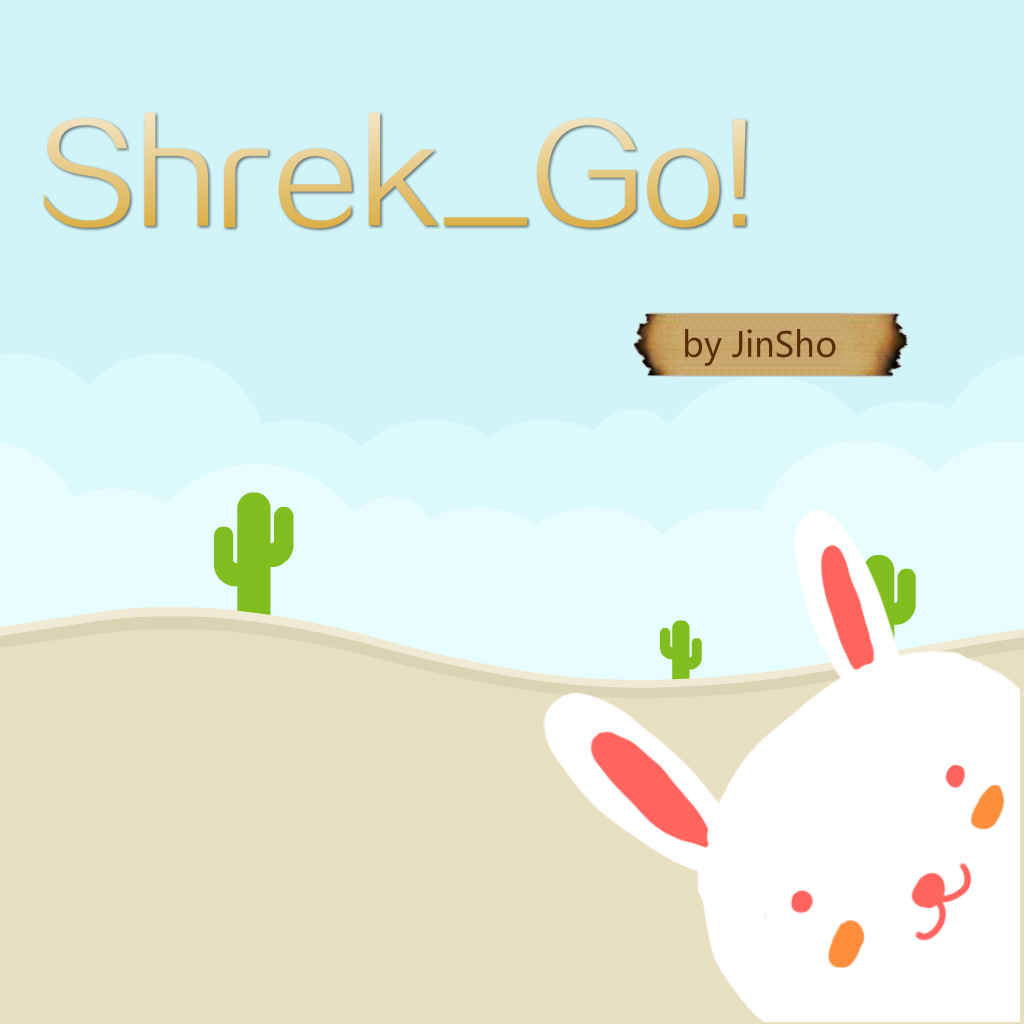
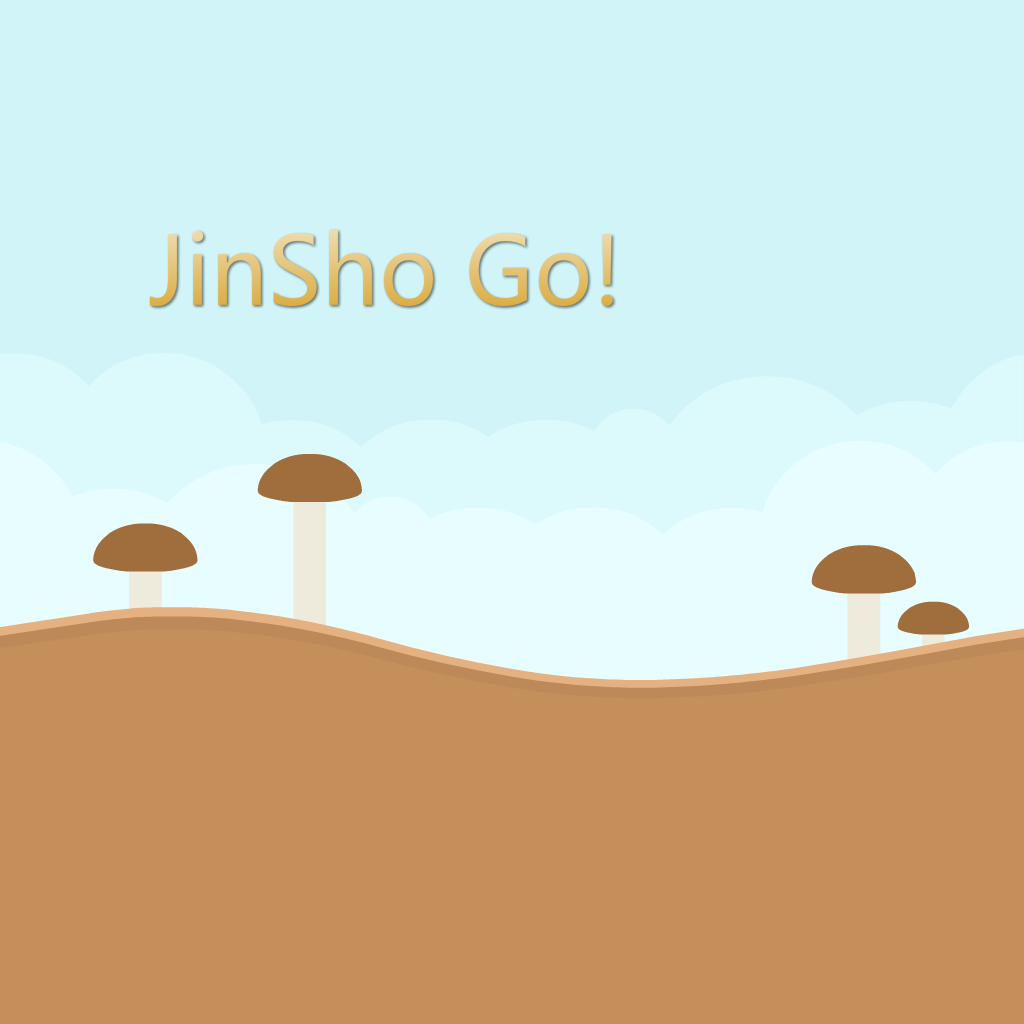
update title screen

diff --git a/project1.4/js/resources.js b/project1.4/js/resources.js
@@ -25,7 +25,7 @@ game.resources = [
     { name: "PressStart2P",       type:"binary", src: "data/fnt/PressStart2P.fnt"},
     // title screen
 	{name: "title_screen",        type:"image",	src: "data/img/gui/title_screen.png"},
-	{name: "newtitle_screen",     type:"image",	src: "data/img/gui/newtitle_screen.png"},
+	{name: "bg_shroom",           type:"image",	src: "data/img/gui/bg_shroom.png"},
 
 	/*
 	 * Maps.

diff --git a/project1.4/js/screens/title.js b/project1.4/js/screens/title.js
@@ -10,7 +10,7 @@ game.TitleScreen = me.ScreenObject.extend({
 
         // title screen
         var backgroundImage = new me.Sprite(0, 0, {
-               image: me.loader.getImage('newtitle_screen'),
+               image: me.loader.getImage('bg_shroom'),
             }
         );
 
